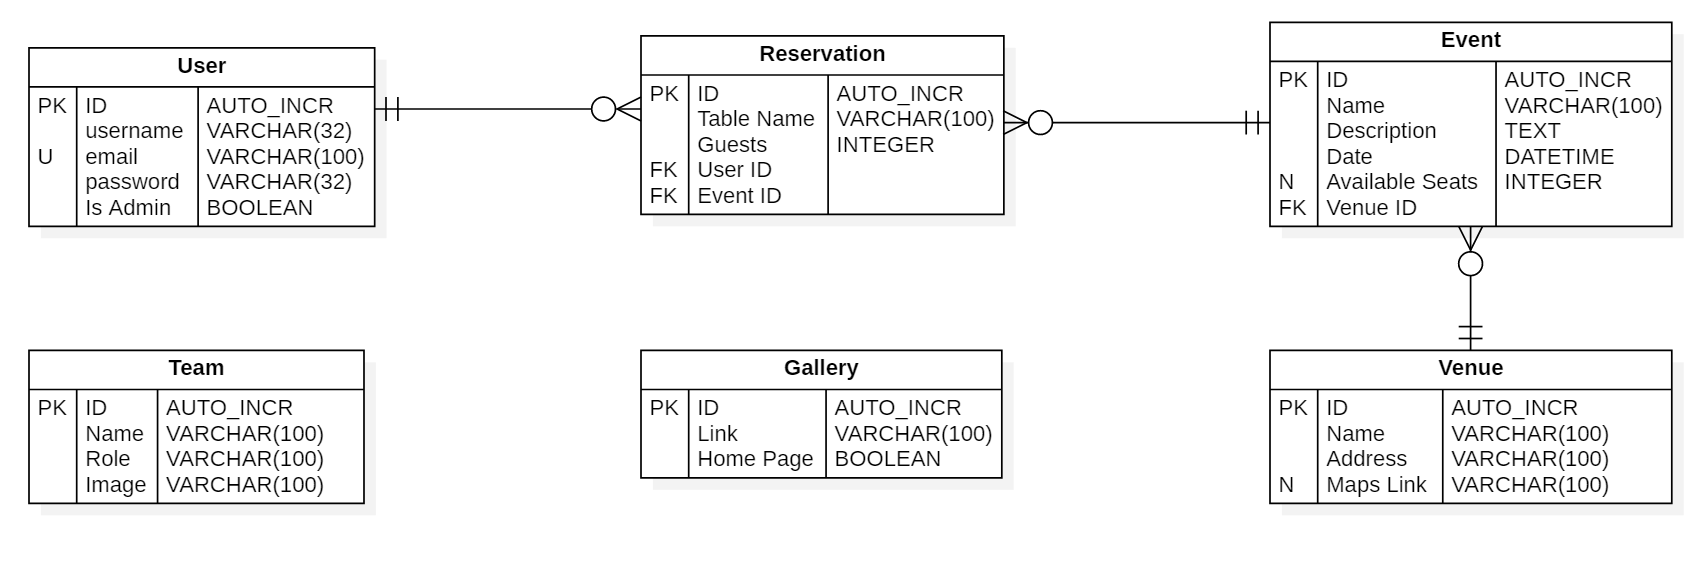
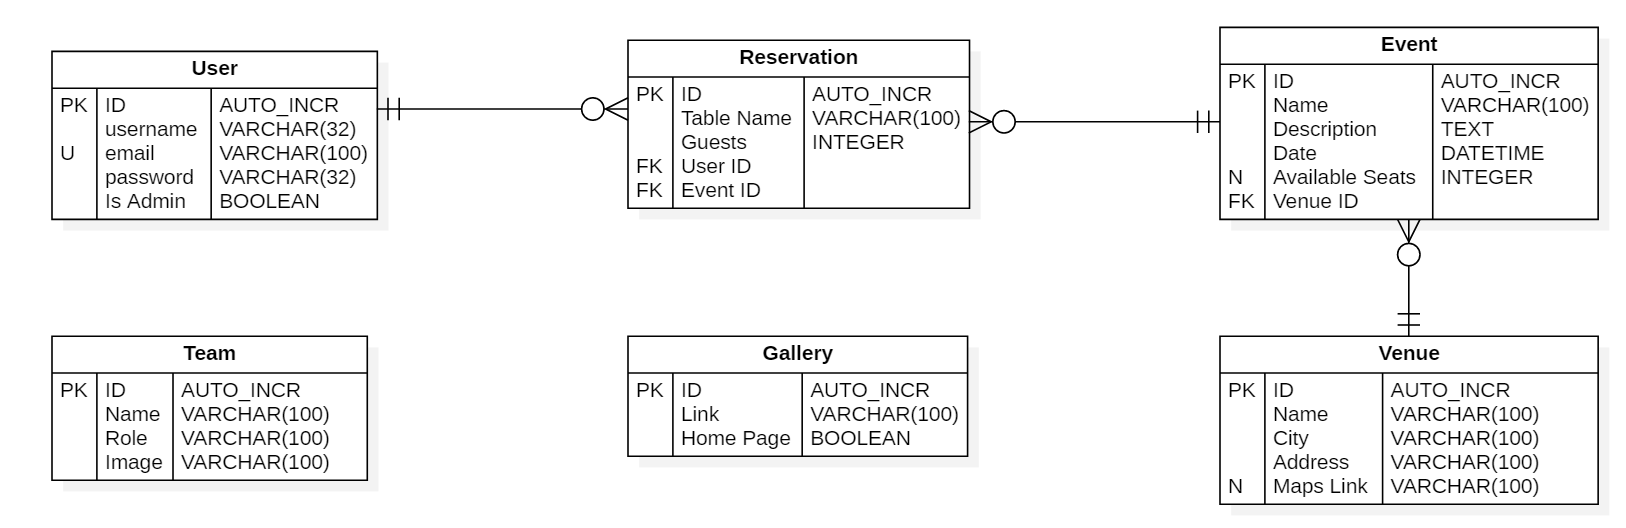
Added field city to table venue. Added Auth middlewares and error message. Added new venue form in create event page

diff --git a/project_beatrice/resources/views/newEvent.blade.php b/project_beatrice/resources/views/newEvent.blade.php
@@ -5,16 +5,20 @@
 @section('left_navbar')
     <li class=><a href="{{ route('home') }}"><span class="glyphicon glyphicon-home"></span></a></li>
     <li class="dropdown active">
-        <a href="#" class="dropdown-toggle active" data-toggle="dropdown">{{ trans("labels.events") }} <b class="caret"></b></a>
+        <a href="#" class="dropdown-toggle active" data-toggle="dropdown">{{ trans('labels.events') }} <b
+                class="caret"></b></a>
         <ul class="dropdown-menu">
-            <li><a href="{{ route('event.index') }}"><span class="glyphicon glyphicon-calendar"></span> {{ trans("labels.calendar") }}</a></li>
+            <li><a href="{{ route('event.index') }}"><span class="glyphicon glyphicon-calendar"></span>
+                    {{ trans('labels.calendar') }}</a></li>
             @if ($logged)
                 <li class="divider"></li>
-                <li><a href="{{ route('event.index') }}"><span class="glyphicon glyphicon-time"></span> {{ trans("labels.myReservations") }}</a>
+                <li><a href="{{ route('event.index') }}"><span class="glyphicon glyphicon-time"></span>
+                        {{ trans('labels.myReservations') }}</a>
                 </li>
                 @if ($isAdmin)
                     <li class="divider"></li>
-                    <li class="active"><a href="{{ route('event.create') }}"><span class="glyphicon glyphicon-plus-sign"></span> {{ trans("labels.newEvent") }}</a></li>
+                    <li class="active"><a href="{{ route('event.create') }}"><span
+                                class="glyphicon glyphicon-plus-sign"></span> {{ trans('labels.newEvent') }}</a></li>
                 @endif
             @endif
         </ul>
@@ -23,23 +27,55 @@
 
 @section('right_navbar')
     @if ($logged)
-        <li><a><i>{{ trans("labels.welcome") }} {{ $loggedName }}</i></a></li>
-        <li><a href="{{ route('user.logout') }}">{{ trans("labels.logout") }} <span class="glyphicon glyphicon-log-out"></span></a></li>
+        <li><a><i>{{ trans('labels.welcome') }} {{ $loggedName }}</i></a></li>
+        <li><a href="{{ route('user.logout') }}">{{ trans('labels.logout') }} <span
+                    class="glyphicon glyphicon-log-out"></span></a></li>
     @else
-        <li><a href="{{ route('user.login') }}"><span class="glyphicon glyphicon-user"></span> {{ trans("labels.login") }}</a></li>
+        <li><a href="{{ route('user.login') }}"><span class="glyphicon glyphicon-user"></span>
+                {{ trans('labels.login') }}</a></li>
     @endif
 @endsection
 
 @section('breadcrumb')
     <li><a href="{{ route('home') }}"><span class="glyphicon glyphicon-home"></span></a></li>
-    <li><a class="active"><span class="glyphicon glyphicon-plus-sign"></span> {{ trans("labels.newEvent") }}</a></li>
+    <li><a class="active"><span class="glyphicon glyphicon-plus-sign"></span> {{ trans('labels.newEvent') }}</a>
+    </li>
 @endsection
 
 @section('corpo')
     <div class="container">
         <div class="row">
             <div class="col-sm-12">
-                Crea evento
+                <div class="jumbotron">
+                    <div class="row">
+                        <div class="col-sm-12">
+                            <h1>{{ trans('labels.newVenueTitle') }}</h1>
+                            <form id="venue-form" action="{{ route('venue.create') }}" method="post">
+                                @csrf
+                                <div class="form-group">
+                                    <input type="text" name="name" class="form-control"
+                                        placeholder="{{ trans('labels.name') }}">
+                                </div>
+                                <div class="form-group">
+                                    <input type="text" name="city" class="form-control"
+                                        placeholder="{!! trans('labels.city') !!}">
+                                </div>
+                                <div class="form-group">
+                                    <input type="text" name="address" class="form-control"
+                                        placeholder="{{ trans('labels.address') }}">
+                                </div>
+                                <div class="form-group">
+                                    <div class="row">
+                                        <div class="col-sm-6 col-sm-offset-3">
+                                            <input type="submit" name="login-submit" class="form-control btn btn-primary"
+                                                value="{{ trans('labels.confirm') }}">
+                                        </div>
+                                    </div>
+                                </div>
+                            </form>
+                        </div>
+                    </div>
+                </div>
             </div>
         </div>
     </div>

diff --git a/project_beatrice/routes/web.php b/project_beatrice/routes/web.php
@@ -18,7 +18,9 @@ use App\Http\Controllers\LangController;
 */
 
 Route::get("/", [FrontController::class, "getHome"])->name("home")->middleware(["lang"]);
+Route::get('/lang/{lang}', [LangController::class, "changeLanguage"])->name("setLang");
 
+// USER
 Route::group(["prefix" => "user"], function () {
 
     Route::get("login", [AuthController::class, "authentication"])->name("user.login")->middleware(["lang"]);
@@ -28,12 +30,18 @@ Route::group(["prefix" => "user"], function () {
 
 });
 
-Route::get('/lang/{lang}', [LangController::class, "changeLanguage"])->name("setLang");
-
+// EVENT
 Route::group(["prefix" => "event"], function () {
 
-    Route::get("create", [EventController::class, "goToCreate"])->name("event.create")->middleware(["lang"]);
+    Route::get("create", [EventController::class, "goToCreate"])->name("event.create")->middleware(["isLogged"])->middleware(["isAdmin"])->middleware(["lang"]);
     Route::get("index", [EventController::class, "goToCurrentEvents"])->name("event.index")->middleware(["lang"]);
+
+});
+
+// VENUE
+Route::group(["prefix" => "venue"], function () {
+
+    Route::get("create", [])->name("venue.create")->middleware(["lang"]);
 
 });
 

diff --git a/project_beatrice/app/Http/Controllers/AuthController.php b/project_beatrice/app/Http/Controllers/AuthController.php
@@ -9,7 +9,14 @@ use Illuminate\Support\Facades\Session;
 
 class AuthController extends Controller {
     public function authentication() {
-        return view("auth.auth");
+        $alert = "";
+
+        if (Session::has("error")) {
+            $alert = $this->create_alert(Session::get("error"));
+            Session::flush();
+        }
+
+        return view("auth.auth")->with("alert", $alert);
     }
 
     public function logout() {
@@ -42,5 +49,16 @@ class AuthController extends Controller {
         $dl->addUser($request->input("username"), $request->input("password"), $request->input("email"));
 
         return Redirect::to(route("user.login"));
+    }
+
+    /**
+     * Creates the Bootstrap alert with a custom message
+     */
+    private function create_alert($message) {
+        return '<div class="alert alert-danger alert-dismissible" role="alert">
+                        <button type="button" class="close" data-dismiss="alert" aria-label="Close"><span
+                                aria-hidden="true">&times;</span></button> ' .
+                        $message
+                    .'</div>';
     }
 }

diff --git a/project_beatrice/app/Http/Middleware/AuthAdmin.php b/project_beatrice/app/Http/Middleware/AuthAdmin.php
@@ -1,0 +1,36 @@
+<?php
+
+namespace App\Http\Middleware;
+
+use Closure;
+use Illuminate\Http\Request;
+use Illuminate\Support\Facades\Redirect;
+use Illuminate\Support\Facades\Session;
+
+class AuthAdmin
+{
+    /**
+     * Verifica che utente sia correttamente admin
+     *
+     * @param  \Illuminate\Http\Request  $request
+     * @param  \Closure(\Illuminate\Http\Request): (\Illuminate\Http\Response|\Illuminate\Http\RedirectResponse)  $next
+     * @return \Illuminate\Http\Response|\Illuminate\Http\RedirectResponse
+     */
+    public function handle(Request $request, Closure $next) {
+        
+        if(!Session::has("is_admin") || !Session::get("is_admin")) {
+            Session::put("error", $this->translate_error_message());
+            return Redirect::to(route("user.login"));
+        }
+
+        return $next($request);
+    }
+
+    private function translate_error_message() {
+        if (Session::has("language") && Session::get("language") == "en") {
+            return "You are not an Admin!";
+        }
+
+        return "Non hai i permessi di Admin!";
+    }
+}

diff --git a/project_beatrice/app/Http/Middleware/AuthCustom.php b/project_beatrice/app/Http/Middleware/AuthCustom.php
@@ -1,0 +1,36 @@
+<?php
+
+namespace App\Http\Middleware;
+
+use Closure;
+use Illuminate\Http\Request;
+use Illuminate\Support\Facades\Redirect;
+use Illuminate\Support\Facades\Session;
+
+class AuthCustom
+{
+    /**
+     * Verifica che utente sia correttamente loggato
+     *
+     * @param  \Illuminate\Http\Request  $request
+     * @param  \Closure(\Illuminate\Http\Request): (\Illuminate\Http\Response|\Illuminate\Http\RedirectResponse)  $next
+     * @return \Illuminate\Http\Response|\Illuminate\Http\RedirectResponse
+     */
+    public function handle(Request $request, Closure $next) {
+
+        if(!Session::has("logged")) {
+            Session::put("error", $this->translate_error_message());
+            return Redirect::to(route("user.login"));
+        }
+
+        return $next($request);
+    }
+
+    private function translate_error_message() {
+        if (Session::has("language") && Session::get("language") == "en") {
+            return "Please log in";
+        }
+
+        return "Accedere con la propria utenza grazie";
+    }
+}

diff --git a/project_beatrice/app/Http/Controllers/VenueController.php b/project_beatrice/app/Http/Controllers/VenueController.php
@@ -6,18 +6,16 @@ use Illuminate\Http\Request;
 use Illuminate\Support\Facades\Redirect;
 use Illuminate\Support\Facades\Session;
 
-class EventController extends Controller
-{
-
-    public function index() {
+class VenueController extends Controller {
+    
+    public function index()
+    {
         return Redirect::route("home");
     }
 
-    public function goToCreate() {
-        return view('newEvent')->with("logged", Session::get("logged"))->with("loggedName", Session::get("loggedName"))->with("isAdmin", Session::get("is_admin"));
-    }
+    public function create()
+    {
 
-    public function create() {
         // return view('book.editBookBootstrap')->with("logged", true)->with("loggedName", $_SESSION["loggedName"]);
         return Redirect::route("home");
     }

diff --git a/project_beatrice/app/Http/Kernel.php b/project_beatrice/app/Http/Kernel.php
@@ -63,6 +63,8 @@ class Kernel extends HttpKernel
         'signed' => \Illuminate\Routing\Middleware\ValidateSignature::class,
         'throttle' => \Illuminate\Routing\Middleware\ThrottleRequests::class,
         'verified' => \Illuminate\Auth\Middleware\EnsureEmailIsVerified::class,
-        "lang" => \App\Http\Middleware\Language::class
+        "lang" => \App\Http\Middleware\Language::class,
+        "isLogged" => \App\Http\Middleware\AuthCustom::class,
+        "isAdmin" => \App\Http\Middleware\AuthAdmin::class
     ];
 }

diff --git a/project_beatrice/resources/views/auth/auth.blade.php b/project_beatrice/resources/views/auth/auth.blade.php
@@ -23,6 +23,7 @@
         <div class="row" style="margin-top: 4em;">
             <div class="col-md-6 col-md-offset-3">
                 <div>
+                    {!! $alert !!}
                     <ul class="nav nav-tabs">
                         <li><a href="{{ route('home') }}"><span class="glyphicon glyphicon-home"></span></a></li>
                         <li class="active"><a href="#login-form"

diff --git a/project_beatrice/lang/it/labels.php b/project_beatrice/lang/it/labels.php
@@ -18,5 +18,10 @@ return [
     "forgotPwd" => "Hai dimenticato la password?",
     "confirmPwd" => "Conferma Password",
     "registerNow" => "Registrati Ora!",
-    "emailAddr" => "Indirizzo Email"
+    "emailAddr" => "Indirizzo Email",
+    "newVenueTitle" => "Crea un nuovo luogo",
+    "name" => "Nome",
+    "address" => "Indirizzo",
+    "city" => "Citt&agrave;",
+    "confirm" => "Conferma"
 ];

diff --git a/project_beatrice/lang/en/labels.php b/project_beatrice/lang/en/labels.php
@@ -18,5 +18,10 @@ return [
     "forgotPwd" => "Forgot Password?",
     "confirmPwd" => "Confirm Password",
     "registerNow" => "Register Now!",
-    "emailAddr" => "Email Address"
+    "emailAddr" => "Email Address",
+    "newVenueTitle" => "Create new Venue",
+    "name" => "Name",
+    "address" => "Address",
+    "city" => "City",
+    "confirm" => "Confirm"
 ];

diff --git a/README.md b/README.md
@@ -20,7 +20,7 @@ Creare versione aggiornata e dinamica del sito già esistente [arcangelodj.it](h
 * Pagina __*Gallery*__ con immagini e video 
 * Possibilità da parte di utenti di tipologia Team Member di aggiungere/modificare/cancellare:
   * _Eventi_ -> Contenti un nome, descrizione, data e ora, luogo(Venue) e, se limitati, il numero di posti disponibili
-  * _Venue_ -> Luoghi dove si svolgeranno gli eventi contenenti: un nome, indirizzo testuale e, se fornito, link Google Maps
+  * _Venue_ -> Luoghi dove si svolgeranno gli eventi contenenti: un nome, la città, indirizzo testuale e link Google Maps(non obbligatorio)
   * _Membri del Team_ -> Con nome, ruolo e immagine
   * _Gallery Items_
 * Scelta della lingua di visualizzazione (Italiano/Inglese)
